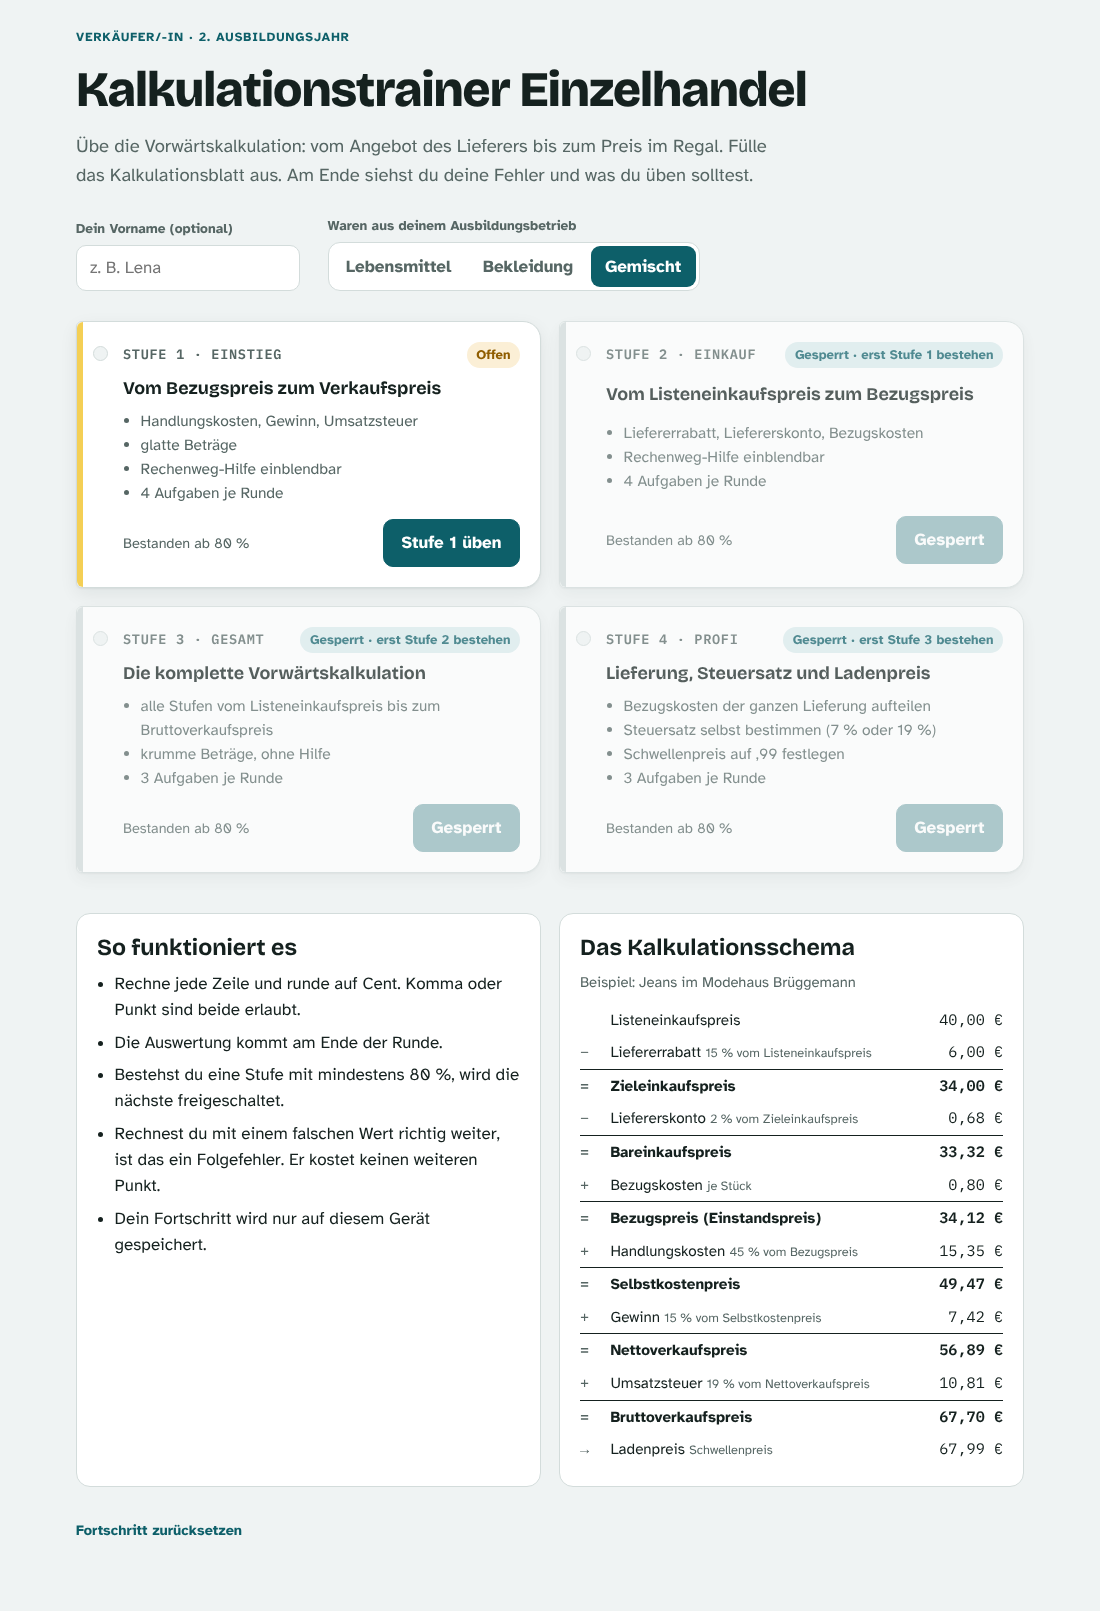
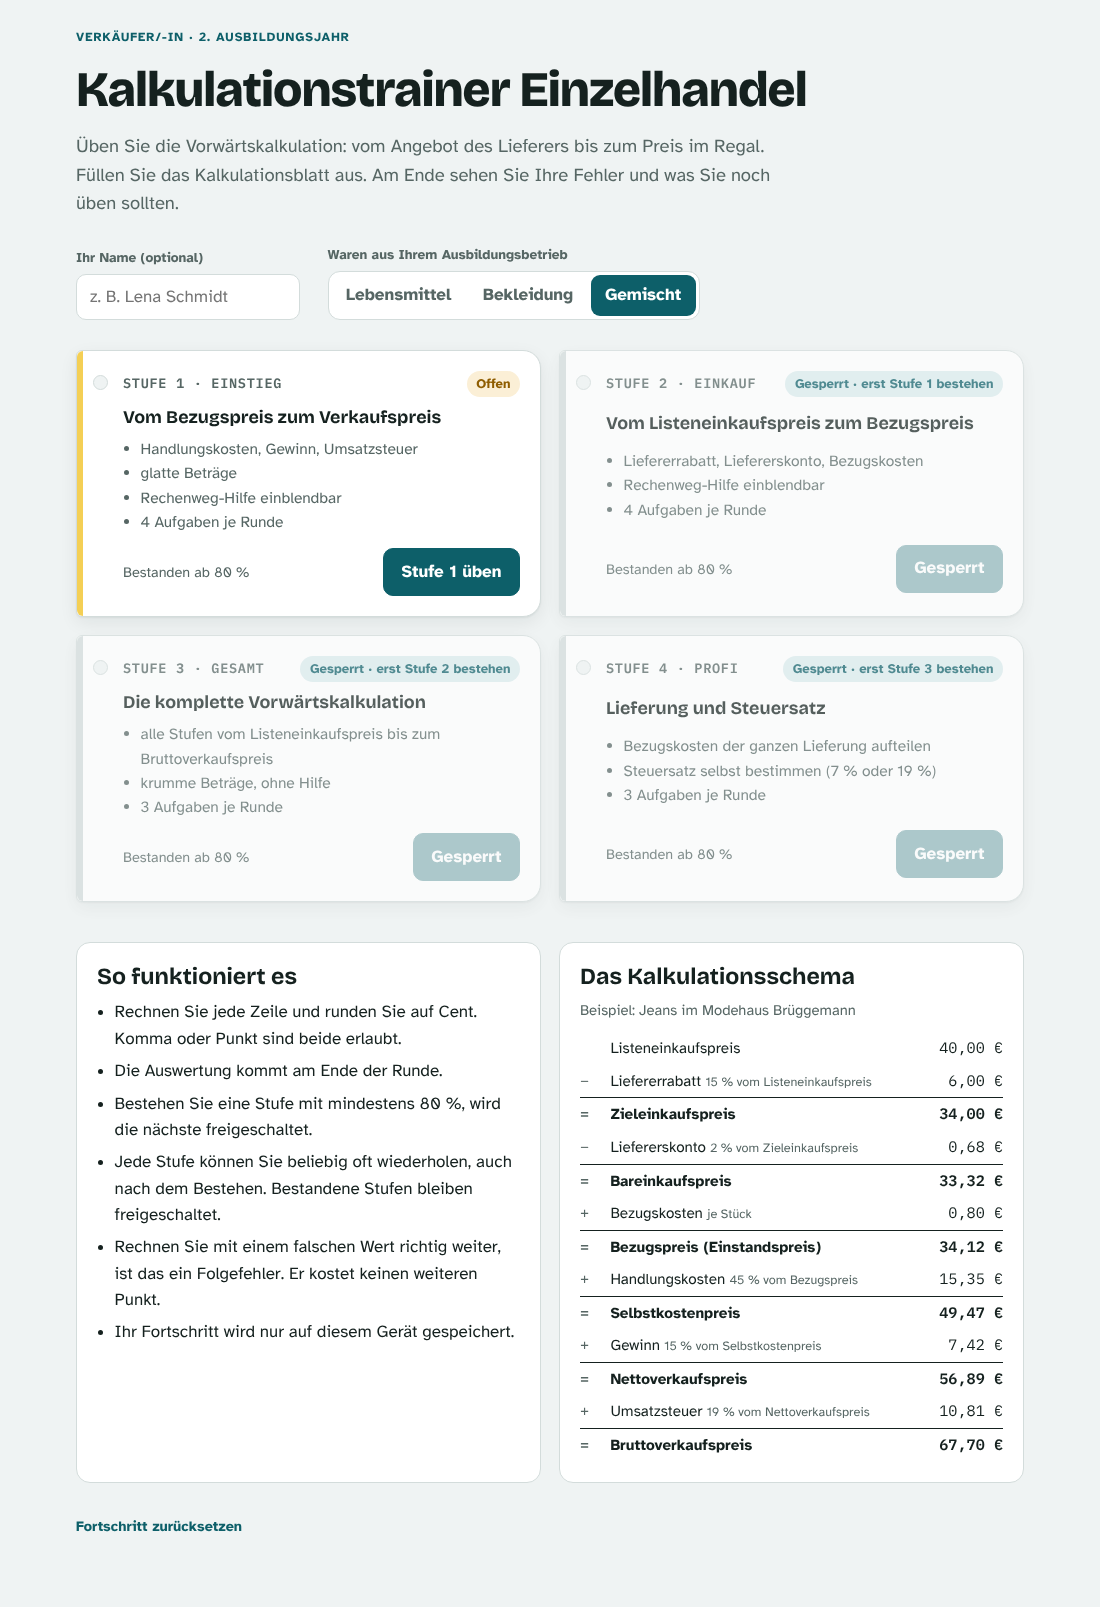
Kalkulationstrainer: Schwellenpreis entfernen
Stufe 4 endet jetzt mit dem Bruttoverkaufspreis. Ladenpreis-Zeile,
Auswertung und Merkblatt-Zeile zum Schwellenpreis sind entfernt.

Claude-Session: https://claude.ai/code/session_01YLe7JCAvyC2wm3CuVaTBQZ

diff --git a/handelskalkulation/index.html b/handelskalkulation/index.html
@@ -129,7 +129,6 @@ button, select, input { font: inherit; color: inherit; }
 .chip.good { background: var(--good-soft); color: var(--good); }
 .chip.bad { background: var(--bad-soft); color: var(--bad); }
 .chip.ok { background: var(--ok-soft); color: var(--ok); }
-.chip.price { background: var(--tag); color: var(--tag-ink); font-family: var(--f-mono); }
 
 .info { display: grid; grid-template-columns: repeat(2, minmax(0, 1fr)); gap: 18px; margin-top: 40px; }
 @media (max-width: 720px) { .info { grid-template-columns: 1fr; } }
@@ -257,7 +256,6 @@ details.res > summary .t { flex: 1; font-weight: 700; min-width: 12rem; }
   const shuffle = a => { const b = a.slice(); for (let i = b.length - 1; i > 0; i--) { const j = Math.floor(Math.random() * (i + 1)); [b[i], b[j]] = [b[j], b[i]]; } return b; };
   const pct = (cents, rate) => Math.round(cents * rate / 100 + 1e-7);
   const near = (x, y, t = TOL) => Math.abs(x - y) <= t;
-  const schwelle = c => { let e = Math.floor(c / 100) * 100 + 99; if (e < c) e += 100; return e; };
 
   function parseMoney(raw) {
     if (raw == null) return null;
@@ -289,8 +287,8 @@ details.res > summary .t { flex: 1; font-weight: 700; min-width: 12rem; }
       items: ["Liefererrabatt, Liefererskonto, Bezugskosten", "Rechenweg-Hilfe einblendbar"] },
     { n: 3, name: "Gesamt", title: "Die komplette Vorwärtskalkulation", tasks: 3, start: "lep", steps: ALL,
       items: ["alle Stufen vom Listeneinkaufspreis bis zum Bruttoverkaufspreis", "krumme Beträge, ohne Hilfe"] },
-    { n: 4, name: "Profi", title: "Lieferung, Steuersatz und Ladenpreis", tasks: 3, start: "lep", steps: ALL, bkTotal: true, ustSelect: true, schwelle: true,
-      items: ["Bezugskosten der ganzen Lieferung aufteilen", "Steuersatz selbst bestimmen (7 % oder 19 %)", "Schwellenpreis auf ,99 festlegen"] }
+    { n: 4, name: "Profi", title: "Lieferung und Steuersatz", tasks: 3, start: "lep", steps: ALL, bkTotal: true, ustSelect: true,
+      items: ["Bezugskosten der ganzen Lieferung aufteilen", "Steuersatz selbst bestimmen (7 % oder 19 %)"] }
   ];
 
   const BRANCHES = {
@@ -338,8 +336,7 @@ details.res > summary .t { flex: 1; font-weight: 700; min-width: 12rem; }
     runden: { t: "Auf Cent runden", d: "Rechnen Sie genau und runden Sie jedes Ergebnis auf zwei Nachkommastellen. Ist die dritte Stelle 5 oder größer, wird aufgerundet.", ex: "12,345 € → 12,35 €   ·   12,344 € → 12,34 €" },
     rechnen: { t: "Zwischenergebnisse genau rechnen", d: "Kontrollieren Sie Addition und Subtraktion. Machen Sie vorher einen Überschlag: Passt das Ergebnis ungefähr?", ex: "34,12 + 15,35 = 49,47  (Überschlag: 34 + 15 = 49)" },
     zeile: { t: "Betrag und Zwischenergebnis trennen", d: "Jede Rechenstufe hat zwei Zeilen: erst den Euro-Betrag (zum Beispiel den Rabatt), dann nach dem Summenstrich das neue Zwischenergebnis (zum Beispiel den Zieleinkaufspreis).", ex: "− Rabatt 6,00 €  /  = Zieleinkaufspreis 34,00 €" },
-    bezugskosten: { t: "Bezugskosten pro Stück", d: "Gelten Fracht oder Verpackung für die ganze Lieferung, teilen Sie sie durch die Bestellmenge. Erst dann kommen sie in die Kalkulation je Stück.", ex: "36,00 € ÷ 48 Stück = 0,75 € je Stück" },
-    schwelle: { t: "Schwellenpreise", d: "Der Ladenpreis endet auf ,99 und liegt nie unter dem kalkulierten Bruttoverkaufspreis. Sonst fehlt Gewinn.", ex: "23,41 € → 23,99 €   ·   23,99 € → 23,99 €" }
+    bezugskosten: { t: "Bezugskosten pro Stück", d: "Gelten Fracht oder Verpackung für die ganze Lieferung, teilen Sie sie durch die Bestellmenge. Erst dann kommen sie in die Kalkulation je Stück.", ex: "36,00 € ÷ 48 Stück = 0,75 € je Stück" }
   };
 
   /* ================= Aufgaben erzeugen ================= */
@@ -356,7 +353,7 @@ details.res > summary .t { flex: 1; font-weight: 700; min-width: 12rem; }
       v += D.op * a;
       amts.push(a); vals.push(v);
     });
-    return { vals, amts, laden: t.schwelle ? schwelle(v) : null };
+    return { vals, amts };
   }
 
   function choosePairs(level, branch) {
@@ -382,7 +379,7 @@ details.res > summary .t { flex: 1; font-weight: 700; min-width: 12rem; }
   function makeTask(level, bKey, p) {
     const L = LEVELS[level - 1];
     const B = BRANCHES[bKey];
-    const t = { level, branch: bKey, product: p, start: L.start, steps: [], schwelle: !!L.schwelle, ustSelect: !!L.ustSelect };
+    const t = { level, branch: bKey, product: p, start: L.start, steps: [], ustSelect: !!L.ustSelect };
     if (L.start === "bzp") {
       t.startValue = randInt(Math.round(p.lep[0] * .8 / 50), Math.round(p.lep[1] * .8 / 50)) * 50;
     } else if (level === 2) {
@@ -422,7 +419,6 @@ details.res > summary .t { flex: 1; font-weight: 700; min-width: 12rem; }
   function taskGoal(t) {
     const p = t.product;
     if (t.level === 2) return `Berechnen Sie den Bezugspreis ${p.per}.`;
-    if (t.schwelle) return `Kalkulieren Sie den Bruttoverkaufspreis ${p.per} und legen Sie den Ladenpreis fest.`;
     return `Berechnen Sie den Bruttoverkaufspreis ${p.per}.`;
   }
   function taskFacts(t) {
@@ -438,7 +434,6 @@ details.res > summary .t { flex: 1; font-weight: 700; min-width: 12rem; }
       if (s.key === "gewinn") f.push(["Gewinnzuschlag", s.rate + " %"]);
       if (s.key === "ust") f.push(["Umsatzsteuer", t.ustSelect ? "selbst bestimmen" : s.rate + " %"]);
     });
-    if (t.schwelle) f.push(["Ladenpreis", "Schwellenpreis mit Endung ,99"]);
     return f;
   }
 
@@ -533,22 +528,6 @@ details.res > summary .t { flex: 1; font-weight: 700; min-width: 12rem; }
       add(rr);
       P = (x === null || Number.isNaN(x)) ? own : x;
     });
-    if (t.schwelle) {
-      const ownL = schwelle(P);
-      const l = parseMoney(ans.laden);
-      const row = { label: "Ladenpreis (Schwellenpreis)", op: "", final: true, your: l, correct: t.sol.laden };
-      if (l === null) { row.status = "empty"; row.cat = "leer"; row.hint = "Dieses Feld ist leer."; }
-      else if (Number.isNaN(l)) { row.status = "wrong"; row.cat = "leer"; row.hint = "Das ist keine gültige Zahl. Schreiben Sie zum Beispiel 24,99."; }
-      else if (l === t.sol.laden) row.status = "ok";
-      else if (l === ownL) { row.status = "folge"; row.hint = `Richtig aufgerundet von Ihrem Bruttoverkaufspreis (${fmt(P)}).`; }
-      else {
-        row.status = "wrong"; row.cat = "schwelle";
-        if (l < P) row.hint = `Ihr Ladenpreis liegt unter dem Bruttoverkaufspreis (${fmt(P)}). Dann fehlt Gewinn. Runden Sie auf: ${fmt(ownL)}.`;
-        else if (l % 100 !== 99) row.hint = `Ein Schwellenpreis endet auf ,99. Der nächste passende Preis ist ${fmt(ownL)}.`;
-        else row.hint = `Nehmen Sie den nächsten Preis mit ,99 über ${fmt(P)}: ${fmt(ownL)}.`;
-      }
-      add(row);
-    }
     return out;
   }
 
@@ -635,7 +614,7 @@ details.res > summary .t { flex: 1; font-weight: 700; min-width: 12rem; }
   }
 
   function exampleSchema() {
-    const t = { start: "lep", startValue: 4000, schwelle: true, product: BRANCHES.bk.products[0],
+    const t = { start: "lep", startValue: 4000, product: BRANCHES.bk.products[0],
       steps: [{ key: "rabatt", rate: 15 }, { key: "skonto", rate: 2 }, { key: "bezug", amount: 80 }, { key: "hk", rate: 45 }, { key: "gewinn", rate: 15 }, { key: "ust", rate: 19 }] };
     t.sol = solve(t);
     const base = ["vom Listeneinkaufspreis", "vom Zieleinkaufspreis", "je Stück", "vom Bezugspreis", "vom Selbstkostenpreis", "vom Nettoverkaufspreis"];
@@ -645,7 +624,7 @@ details.res > summary .t { flex: 1; font-weight: 700; min-width: 12rem; }
       h += `<div class="sr"><span class="o">${D.op < 0 ? "−" : "+"}</span><span>${D.amount} <small>${s.rate ? s.rate + " % " : ""}${base[i]}</small></span><span class="v">${fmt(t.sol.amts[i])}</span></div>`;
       h += `<div class="sr sum"><span class="o">=</span><span>${D.result}</span><span class="v">${fmt(t.sol.vals[i + 1])}</span></div>`;
     });
-    h += `<div class="sr"><span class="o">→</span><span>Ladenpreis <small>Schwellenpreis</small></span><span class="v">${fmt(t.sol.laden)}</span></div></div>`;
+    h += `</div>`;
     return h;
   }
 
@@ -667,12 +646,11 @@ details.res > summary .t { flex: 1; font-weight: 700; min-width: 12rem; }
       rows += `<div class="row"><span class="op">${D.op < 0 ? "−" : "+"}</span><span class="lbl"><label for="${id("a" + i)}">${D.amount}</label>${chip}</span>${input("a" + i, D.amount)}`;
       if (L.help) rows += `<div class="help">${D.type === "fixed" ? "Betrag aus dem Angebot übernehmen" : `${short(labels[i])} × ${s.rate} ÷ 100`}</div>`;
       rows += `</div>`;
-      const last = i === t.steps.length - 1 && !t.schwelle;
+      const last = i === t.steps.length - 1;
       rows += `<div class="row sum${last ? " final" : ""}"><span class="op">=</span><span class="lbl"><label for="${id("r" + i)}">${D.result}</label></span>${input("r" + i, D.result)}`;
       if (L.help) rows += `<div class="help">${short(labels[i])} ${D.op < 0 ? "−" : "+"} ${D.amount}</div>`;
       rows += `</div>`;
     });
-    if (t.schwelle) rows += `<div class="row final"><span class="op">→</span><span class="lbl"><label for="${id("laden")}">Ladenpreis</label><span class="chip price">,99</span></span>${input("laden", "Ladenpreis")}</div>`;
 
     const dots = S.tasks.map((_, i) => `<span class="${i === S.idx ? "on" : isFilled(i) ? "done" : ""}"></span>`).join("");
     const isLast = S.idx === S.tasks.length - 1;
@@ -711,7 +689,6 @@ details.res > summary .t { flex: 1; font-weight: 700; min-width: 12rem; }
   function fieldKeys(t) {
     const k = [];
     t.steps.forEach((s, i) => { if (s.key === "ust" && t.ustSelect) k.push("ust"); k.push("a" + i, "r" + i); });
-    if (t.schwelle) k.push("laden");
     return k;
   }
   function isFilled(i) { return fieldKeys(S.tasks[i]).every(k => (S.answers[i][k] || "").trim() !== ""); }

diff --git a/handelskalkulation/kalkulation.html b/handelskalkulation/kalkulation.html
@@ -120,7 +120,6 @@ button, select, input { font: inherit; color: inherit; }
 .chip.good { background: var(--good-soft); color: var(--good); }
 .chip.bad { background: var(--bad-soft); color: var(--bad); }
 .chip.ok { background: var(--ok-soft); color: var(--ok); }
-.chip.price { background: var(--tag); color: var(--tag-ink); font-family: var(--f-mono); }
 
 .info { display: grid; grid-template-columns: repeat(2, minmax(0, 1fr)); gap: 18px; margin-top: 40px; }
 @media (max-width: 720px) { .info { grid-template-columns: 1fr; } }
@@ -248,7 +247,6 @@ details.res > summary .t { flex: 1; font-weight: 700; min-width: 12rem; }
   const shuffle = a => { const b = a.slice(); for (let i = b.length - 1; i > 0; i--) { const j = Math.floor(Math.random() * (i + 1)); [b[i], b[j]] = [b[j], b[i]]; } return b; };
   const pct = (cents, rate) => Math.round(cents * rate / 100 + 1e-7);
   const near = (x, y, t = TOL) => Math.abs(x - y) <= t;
-  const schwelle = c => { let e = Math.floor(c / 100) * 100 + 99; if (e < c) e += 100; return e; };
 
   function parseMoney(raw) {
     if (raw == null) return null;
@@ -280,8 +278,8 @@ details.res > summary .t { flex: 1; font-weight: 700; min-width: 12rem; }
       items: ["Liefererrabatt, Liefererskonto, Bezugskosten", "Rechenweg-Hilfe einblendbar"] },
     { n: 3, name: "Gesamt", title: "Die komplette Vorwärtskalkulation", tasks: 3, start: "lep", steps: ALL,
       items: ["alle Stufen vom Listeneinkaufspreis bis zum Bruttoverkaufspreis", "krumme Beträge, ohne Hilfe"] },
-    { n: 4, name: "Profi", title: "Lieferung, Steuersatz und Ladenpreis", tasks: 3, start: "lep", steps: ALL, bkTotal: true, ustSelect: true, schwelle: true,
-      items: ["Bezugskosten der ganzen Lieferung aufteilen", "Steuersatz selbst bestimmen (7 % oder 19 %)", "Schwellenpreis auf ,99 festlegen"] }
+    { n: 4, name: "Profi", title: "Lieferung und Steuersatz", tasks: 3, start: "lep", steps: ALL, bkTotal: true, ustSelect: true,
+      items: ["Bezugskosten der ganzen Lieferung aufteilen", "Steuersatz selbst bestimmen (7 % oder 19 %)"] }
   ];
 
   const BRANCHES = {
@@ -329,8 +327,7 @@ details.res > summary .t { flex: 1; font-weight: 700; min-width: 12rem; }
     runden: { t: "Auf Cent runden", d: "Rechnen Sie genau und runden Sie jedes Ergebnis auf zwei Nachkommastellen. Ist die dritte Stelle 5 oder größer, wird aufgerundet.", ex: "12,345 € → 12,35 €   ·   12,344 € → 12,34 €" },
     rechnen: { t: "Zwischenergebnisse genau rechnen", d: "Kontrollieren Sie Addition und Subtraktion. Machen Sie vorher einen Überschlag: Passt das Ergebnis ungefähr?", ex: "34,12 + 15,35 = 49,47  (Überschlag: 34 + 15 = 49)" },
     zeile: { t: "Betrag und Zwischenergebnis trennen", d: "Jede Rechenstufe hat zwei Zeilen: erst den Euro-Betrag (zum Beispiel den Rabatt), dann nach dem Summenstrich das neue Zwischenergebnis (zum Beispiel den Zieleinkaufspreis).", ex: "− Rabatt 6,00 €  /  = Zieleinkaufspreis 34,00 €" },
-    bezugskosten: { t: "Bezugskosten pro Stück", d: "Gelten Fracht oder Verpackung für die ganze Lieferung, teilen Sie sie durch die Bestellmenge. Erst dann kommen sie in die Kalkulation je Stück.", ex: "36,00 € ÷ 48 Stück = 0,75 € je Stück" },
-    schwelle: { t: "Schwellenpreise", d: "Der Ladenpreis endet auf ,99 und liegt nie unter dem kalkulierten Bruttoverkaufspreis. Sonst fehlt Gewinn.", ex: "23,41 € → 23,99 €   ·   23,99 € → 23,99 €" }
+    bezugskosten: { t: "Bezugskosten pro Stück", d: "Gelten Fracht oder Verpackung für die ganze Lieferung, teilen Sie sie durch die Bestellmenge. Erst dann kommen sie in die Kalkulation je Stück.", ex: "36,00 € ÷ 48 Stück = 0,75 € je Stück" }
   };
 
   /* ================= Aufgaben erzeugen ================= */
@@ -347,7 +344,7 @@ details.res > summary .t { flex: 1; font-weight: 700; min-width: 12rem; }
       v += D.op * a;
       amts.push(a); vals.push(v);
     });
-    return { vals, amts, laden: t.schwelle ? schwelle(v) : null };
+    return { vals, amts };
   }
 
   function choosePairs(level, branch) {
@@ -373,7 +370,7 @@ details.res > summary .t { flex: 1; font-weight: 700; min-width: 12rem; }
   function makeTask(level, bKey, p) {
     const L = LEVELS[level - 1];
     const B = BRANCHES[bKey];
-    const t = { level, branch: bKey, product: p, start: L.start, steps: [], schwelle: !!L.schwelle, ustSelect: !!L.ustSelect };
+    const t = { level, branch: bKey, product: p, start: L.start, steps: [], ustSelect: !!L.ustSelect };
     if (L.start === "bzp") {
       t.startValue = randInt(Math.round(p.lep[0] * .8 / 50), Math.round(p.lep[1] * .8 / 50)) * 50;
     } else if (level === 2) {
@@ -413,7 +410,6 @@ details.res > summary .t { flex: 1; font-weight: 700; min-width: 12rem; }
   function taskGoal(t) {
     const p = t.product;
     if (t.level === 2) return `Berechnen Sie den Bezugspreis ${p.per}.`;
-    if (t.schwelle) return `Kalkulieren Sie den Bruttoverkaufspreis ${p.per} und legen Sie den Ladenpreis fest.`;
     return `Berechnen Sie den Bruttoverkaufspreis ${p.per}.`;
   }
   function taskFacts(t) {
@@ -429,7 +425,6 @@ details.res > summary .t { flex: 1; font-weight: 700; min-width: 12rem; }
       if (s.key === "gewinn") f.push(["Gewinnzuschlag", s.rate + " %"]);
       if (s.key === "ust") f.push(["Umsatzsteuer", t.ustSelect ? "selbst bestimmen" : s.rate + " %"]);
     });
-    if (t.schwelle) f.push(["Ladenpreis", "Schwellenpreis mit Endung ,99"]);
     return f;
   }
 
@@ -524,22 +519,6 @@ details.res > summary .t { flex: 1; font-weight: 700; min-width: 12rem; }
       add(rr);
       P = (x === null || Number.isNaN(x)) ? own : x;
     });
-    if (t.schwelle) {
-      const ownL = schwelle(P);
-      const l = parseMoney(ans.laden);
-      const row = { label: "Ladenpreis (Schwellenpreis)", op: "", final: true, your: l, correct: t.sol.laden };
-      if (l === null) { row.status = "empty"; row.cat = "leer"; row.hint = "Dieses Feld ist leer."; }
-      else if (Number.isNaN(l)) { row.status = "wrong"; row.cat = "leer"; row.hint = "Das ist keine gültige Zahl. Schreiben Sie zum Beispiel 24,99."; }
-      else if (l === t.sol.laden) row.status = "ok";
-      else if (l === ownL) { row.status = "folge"; row.hint = `Richtig aufgerundet von Ihrem Bruttoverkaufspreis (${fmt(P)}).`; }
-      else {
-        row.status = "wrong"; row.cat = "schwelle";
-        if (l < P) row.hint = `Ihr Ladenpreis liegt unter dem Bruttoverkaufspreis (${fmt(P)}). Dann fehlt Gewinn. Runden Sie auf: ${fmt(ownL)}.`;
-        else if (l % 100 !== 99) row.hint = `Ein Schwellenpreis endet auf ,99. Der nächste passende Preis ist ${fmt(ownL)}.`;
-        else row.hint = `Nehmen Sie den nächsten Preis mit ,99 über ${fmt(P)}: ${fmt(ownL)}.`;
-      }
-      add(row);
-    }
     return out;
   }
 
@@ -626,7 +605,7 @@ details.res > summary .t { flex: 1; font-weight: 700; min-width: 12rem; }
   }
 
   function exampleSchema() {
-    const t = { start: "lep", startValue: 4000, schwelle: true, product: BRANCHES.bk.products[0],
+    const t = { start: "lep", startValue: 4000, product: BRANCHES.bk.products[0],
       steps: [{ key: "rabatt", rate: 15 }, { key: "skonto", rate: 2 }, { key: "bezug", amount: 80 }, { key: "hk", rate: 45 }, { key: "gewinn", rate: 15 }, { key: "ust", rate: 19 }] };
     t.sol = solve(t);
     const base = ["vom Listeneinkaufspreis", "vom Zieleinkaufspreis", "je Stück", "vom Bezugspreis", "vom Selbstkostenpreis", "vom Nettoverkaufspreis"];
@@ -636,7 +615,7 @@ details.res > summary .t { flex: 1; font-weight: 700; min-width: 12rem; }
       h += `<div class="sr"><span class="o">${D.op < 0 ? "−" : "+"}</span><span>${D.amount} <small>${s.rate ? s.rate + " % " : ""}${base[i]}</small></span><span class="v">${fmt(t.sol.amts[i])}</span></div>`;
       h += `<div class="sr sum"><span class="o">=</span><span>${D.result}</span><span class="v">${fmt(t.sol.vals[i + 1])}</span></div>`;
     });
-    h += `<div class="sr"><span class="o">→</span><span>Ladenpreis <small>Schwellenpreis</small></span><span class="v">${fmt(t.sol.laden)}</span></div></div>`;
+    h += `</div>`;
     return h;
   }
 
@@ -658,12 +637,11 @@ details.res > summary .t { flex: 1; font-weight: 700; min-width: 12rem; }
       rows += `<div class="row"><span class="op">${D.op < 0 ? "−" : "+"}</span><span class="lbl"><label for="${id("a" + i)}">${D.amount}</label>${chip}</span>${input("a" + i, D.amount)}`;
       if (L.help) rows += `<div class="help">${D.type === "fixed" ? "Betrag aus dem Angebot übernehmen" : `${short(labels[i])} × ${s.rate} ÷ 100`}</div>`;
       rows += `</div>`;
-      const last = i === t.steps.length - 1 && !t.schwelle;
+      const last = i === t.steps.length - 1;
       rows += `<div class="row sum${last ? " final" : ""}"><span class="op">=</span><span class="lbl"><label for="${id("r" + i)}">${D.result}</label></span>${input("r" + i, D.result)}`;
       if (L.help) rows += `<div class="help">${short(labels[i])} ${D.op < 0 ? "−" : "+"} ${D.amount}</div>`;
       rows += `</div>`;
     });
-    if (t.schwelle) rows += `<div class="row final"><span class="op">→</span><span class="lbl"><label for="${id("laden")}">Ladenpreis</label><span class="chip price">,99</span></span>${input("laden", "Ladenpreis")}</div>`;
 
     const dots = S.tasks.map((_, i) => `<span class="${i === S.idx ? "on" : isFilled(i) ? "done" : ""}"></span>`).join("");
     const isLast = S.idx === S.tasks.length - 1;
@@ -702,7 +680,6 @@ details.res > summary .t { flex: 1; font-weight: 700; min-width: 12rem; }
   function fieldKeys(t) {
     const k = [];
     t.steps.forEach((s, i) => { if (s.key === "ust" && t.ustSelect) k.push("ust"); k.push("a" + i, "r" + i); });
-    if (t.schwelle) k.push("laden");
     return k;
   }
   function isFilled(i) { return fieldKeys(S.tasks[i]).every(k => (S.answers[i][k] || "").trim() !== ""); }

diff --git a/README.md b/README.md
@@ -65,7 +65,7 @@ Online-Übung zur Vorwärtskalkulation für Verkäuferinnen und Verkäufer im 2.
 | 1 Einstieg | Bezugspreis → Handlungskosten → Gewinn → Umsatzsteuer, glatte Beträge, Rechenweg-Hilfe | 4 |
 | 2 Einkauf | Listeneinkaufspreis → Rabatt → Skonto → Bezugskosten, Rechenweg-Hilfe | 4 |
 | 3 Gesamt | komplette Vorwärtskalkulation bis zum Bruttoverkaufspreis | 3 |
-| 4 Profi | Bezugskosten der Lieferung aufteilen, Steuersatz (7 %/19 %) selbst bestimmen, Schwellenpreis ,99 | 3 |
+| 4 Profi | Bezugskosten der Lieferung aufteilen, Steuersatz (7 %/19 %) selbst bestimmen | 3 |
 
 - Die Aufgaben werden bei jeder Runde mit neuen Zahlen erzeugt.
 - Eine Stufe ist ab 80 % bestanden. Erst dann wird die nächste freigeschaltet.
